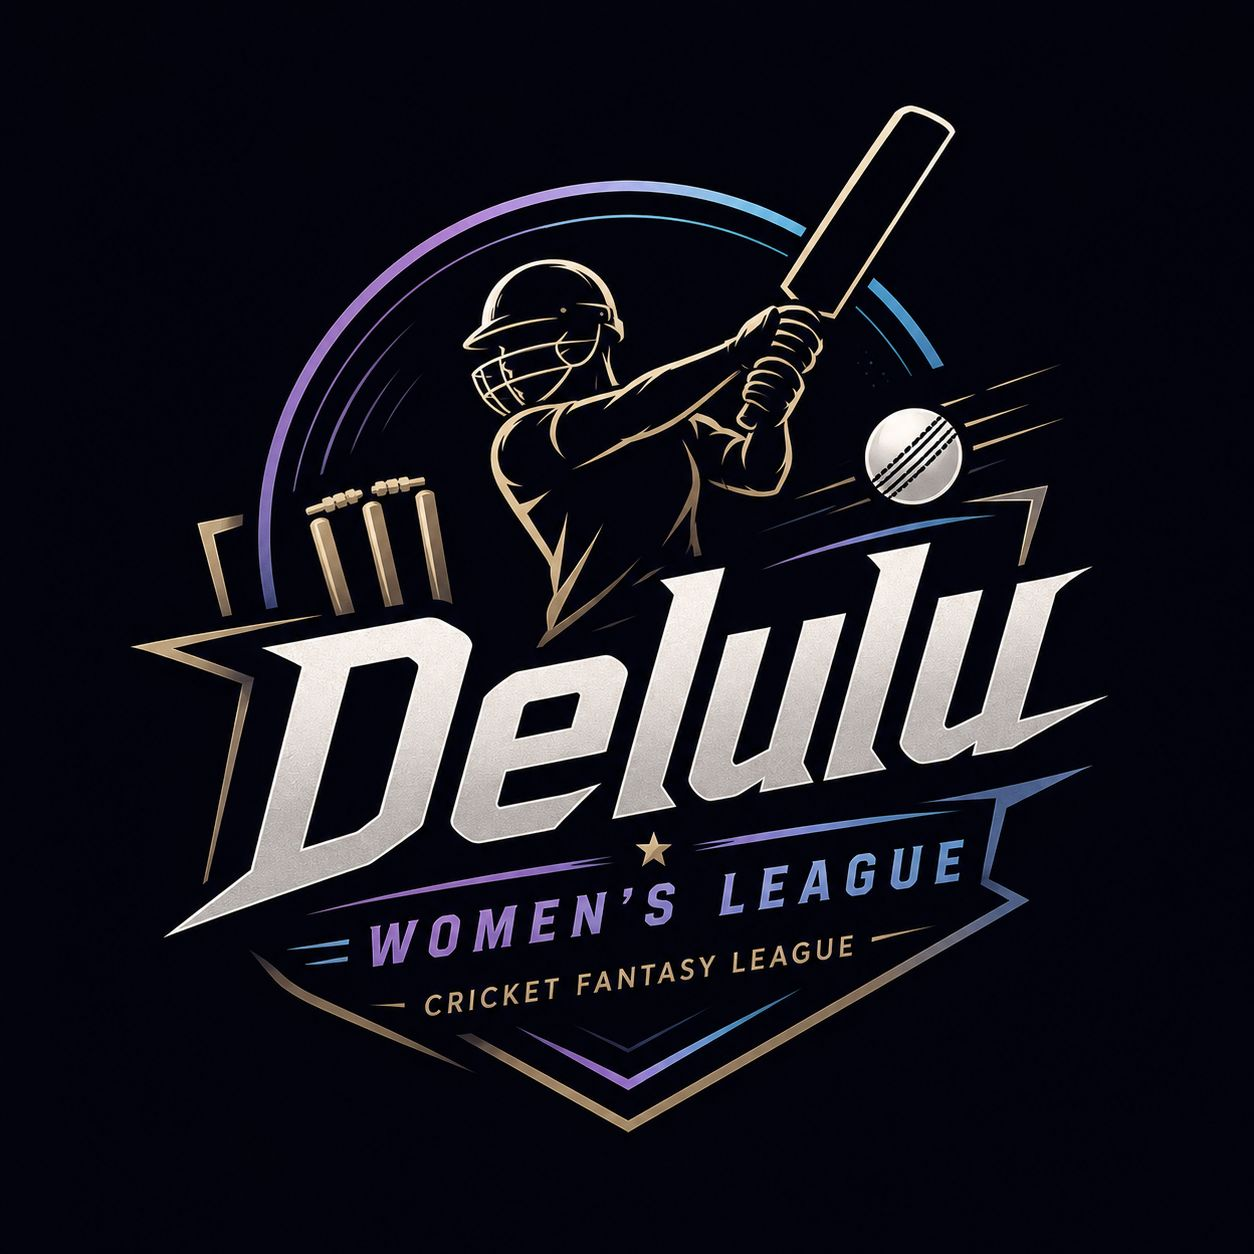
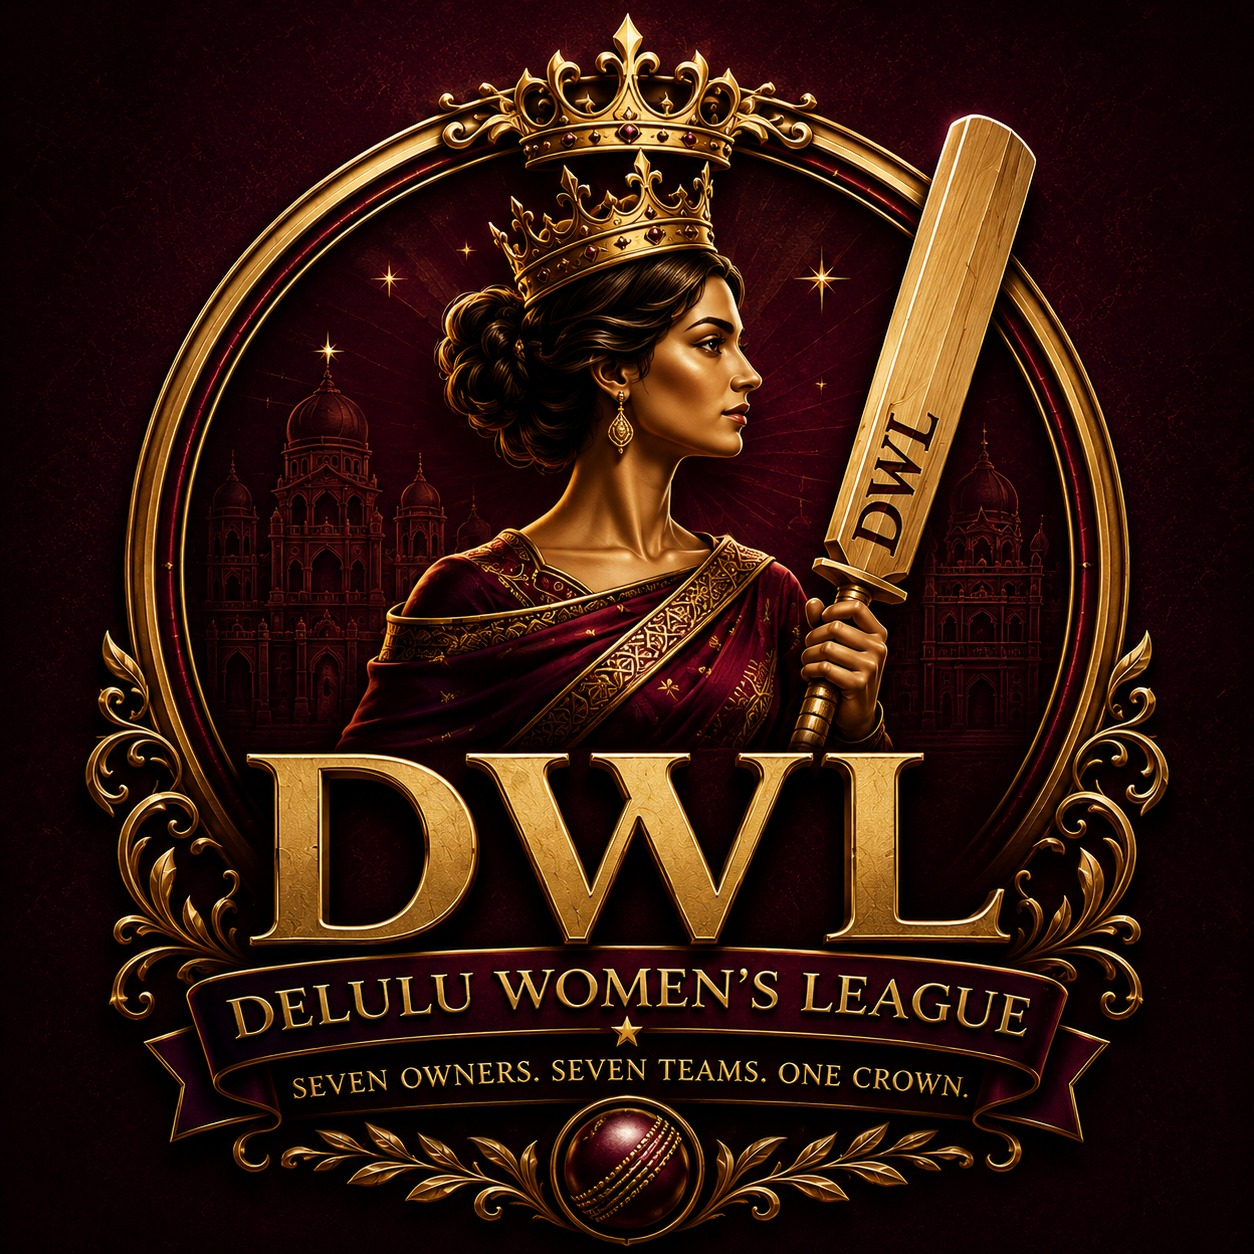
Add SGS, remove CT, update colors, Update Scoring criteria calculator

diff --git a/dwl-fantasy-platform/frontend/src/components/MatchDetailsModal.jsx b/dwl-fantasy-platform/frontend/src/components/MatchDetailsModal.jsx
@@ -1,7 +1,7 @@
 import React from 'react';
 import { motion } from 'framer-motion';
 import { XMarkIcon, TrophyIcon, UserIcon } from '@heroicons/react/24/outline';
-import { teamPrimaryColors } from '../data/teamColors';
+import { teamPrimaryColors, teamSecondaryColors } from '../data/teamColors';
 import { countryAbbrToFullNames } from '../data/countryInfo';
 
 
@@ -10,6 +10,9 @@ const countryNames = countryAbbrToFullNames
 
 // Team primary color mapping
 const teamBgColors = teamPrimaryColors
+
+// Team secondary color mapping
+const teamTextColors = teamSecondaryColors
 
 function MatchDetailsModal({ match, onClose }) {
   if (!match) return null;
@@ -205,7 +208,7 @@ function MatchDetailsModal({ match, onClose }) {
               return (
                 <div key={team} style={{ 
                   textAlign: 'center',
-                  width: '90px',
+                  width: '120px',
                   borderRadius: '8px',
                   overflow: 'hidden',
                   boxShadow: '0 2px 4px rgba(0,0,0,0.1)'
@@ -223,8 +226,8 @@ function MatchDetailsModal({ match, onClose }) {
                   <div style={{ 
                     padding: '0.5rem 0.25rem',
                     background: teamBgColors[team] || '#667eea',
-                    fontSize: '0.65rem', 
-                    color: 'white', 
+                    fontSize: '0.9rem', 
+                    color: teamTextColors[team] || 'white', 
                     fontWeight: '600',
                     textTransform: 'uppercase',
                     letterSpacing: '0.3px',
@@ -239,7 +242,7 @@ function MatchDetailsModal({ match, onClose }) {
                   }}>
                     <div>{team}</div>
                     <div style={{ 
-                      fontSize: '0.55rem', 
+                      fontSize: '0.7rem', 
                       opacity: 0.85, 
                       marginTop: '0.25rem',
                       borderTop: '1px solid rgba(255,255,255,0.3)',
@@ -297,7 +300,7 @@ function MatchDetailsModal({ match, onClose }) {
                   <td style={{ padding: '0.75rem', color: '#ccc' }}>
                     <div>
                       <span style={{ fontWeight: '500' }}>{player.name}</span>
-                      {player.is_motm && <span style={{ marginLeft: '0.5rem', fontSize: '0.7rem', color: '#FFD700' }}>⭐ MoM</span>}
+                      {player.is_motm && <span style={{ marginLeft: '0.5rem', fontSize: '0.7rem', color: '#FFD700' }}>⭐ PoM</span>}
                     </div>
                   </td>
                   <td style={{ padding: '0.75rem', fontSize: '0.8rem', color: '#999' }}>{player.country || '-'}</td>
@@ -350,7 +353,7 @@ function MatchDetailsModal({ match, onClose }) {
                       <td style={{ padding: '0.75rem', color: '#ccc' }}>
                         <div>
                           <span style={{ fontWeight: '500' }}>{player.name}</span>
-                          {player.is_motm && <span style={{ marginLeft: '0.5rem', fontSize: '0.7rem', color: '#FFD700' }}>⭐ MoM</span>}
+                          {player.is_motm && <span style={{ marginLeft: '0.5rem', fontSize: '0.7rem', color: '#FFD700' }}>⭐ PoM</span>}
                         </div>
                       </td>
                       <td style={{ padding: '0.75rem', fontSize: '0.8rem', color: '#999' }}>{player.country || '-'}</td>

diff --git a/dwl-fantasy-platform/frontend/src/data/teamOwners.js b/dwl-fantasy-platform/frontend/src/data/teamOwners.js
@@ -1,9 +1,5 @@
 // Team owner information
 export const teamOwners = {
-  'Chennai Thunder': { 
-    instaId: "slay.asray", 
-    instaUrl: "https://www.instagram.com/slay.asray/" 
-  },
   'Gully Divas': { 
     instaId: "barghavi.v", 
     instaUrl: "https://www.instagram.com/barghavi.v/" 
@@ -23,6 +19,10 @@ export const teamOwners = {
   'Sarafa Strikers': { 
     instaId: "kishanpolekar", 
     instaUrl: "https://www.instagram.com/kishanpolekar/" 
+  },
+  'Singara Singapengal': { 
+    instaId: "slay.asray", 
+    instaUrl: "https://www.instagram.com/slay.asray/" 
   },
   'Vanitha Warriors': { 
     instaId: "niksu1797", 

diff --git a/dwl-fantasy-platform/frontend/src/components/Teams.jsx b/dwl-fantasy-platform/frontend/src/components/Teams.jsx
@@ -3,12 +3,15 @@ import { motion, AnimatePresence } from 'framer-motion';
 import { XMarkIcon, UserIcon } from '@heroicons/react/24/outline';
 import PlayerNameWithBadge from './PlayerNameWithBadge';
 import { teamOwners } from '../data/teamOwners';
-import { teamPrimaryColors, teamEmojis } from '../data/teamColors';
+import { teamPrimaryColors, teamSecondaryColors, teamEmojis } from '../data/teamColors';
 import { countryAbbrToFullNames } from '../data/countryInfo';
 import { ChevronUpIcon, ChevronDownIcon, MagnifyingGlassIcon } from '@heroicons/react/24/outline';
 
 // Team background color mapping
 const teamBgColors = teamPrimaryColors
+
+// Team secondary color mapping
+const teamTextColors = teamSecondaryColors
 
 // Country abbreviation to full name mapping
 const countryNames = countryAbbrToFullNames
@@ -440,7 +443,7 @@ function Teams({ teams, players, leaderMap }) {
                 </div>
                 
                 {/* Team Info */}
-                <div style={{ flex: 1 }}>
+                <div style={{ flex: 1, color: teamTextColors[selectedTeam.name] || 'white' }}>
                   <h2 style={{ margin: 0, fontSize: '1.5rem' }}>{selectedTeam.name}</h2>
                   <p style={{ margin: '0.5rem 0 0', opacity: 0.9 }}>
                     {selectedTeamPlayers.length} Players • {Math.round(selectedTeam.totalPoints || 0).toLocaleString()} Total Points

diff --git a/dwl-fantasy-platform/frontend/src/components/Stats.jsx b/dwl-fantasy-platform/frontend/src/components/Stats.jsx
@@ -11,7 +11,7 @@ import { countryAbbrToFullNames } from '../data/countryInfo';
 const teamBgColors = teamPrimaryColors
 
 // Team secondary color mapping
-const teamBorderColors = teamSecondaryColors
+const teamColors = teamSecondaryColors
 
 // Country abbreviation to full name mapping
 const countryNames = countryAbbrToFullNames
@@ -241,11 +241,11 @@ function Stats({ teams, players, matches, leaderMap, tournamentStats, setActiveT
                 <PlayerNameWithBadge name={p.name} captainVC={p.captainVC} leaderMap={leaderMap} />
                 <span style={{ 
                   fontSize: '0.7rem', 
-                  color: 'rgba(255,255,255,0.95)', 
+                  color: teamColors[p.team] || 'rgba(255,255,255,0.95)', 
                   background: teamBgColors[p.team] || '#f0f0f0', 
                   padding: '0.1rem 0.5rem', 
                   borderRadius: '2px',
-                  border: `2px solid ${teamBorderColors[p.team] || '#ccc'}`
+                  border: `2px solid ${teamColors[p.team] || '#ccc'}`
                 }}>
                   {teamNameToAbbr[p.team] || p.team || '??'}
                 </span>

diff --git a/dwl-fantasy-platform/frontend/src/data/teamColors.js b/dwl-fantasy-platform/frontend/src/data/teamColors.js
@@ -1,32 +1,32 @@
 // Team primary color mapping (Main branding colors for team backgrounds, cards, and headers)
 export const teamPrimaryColors = {
-  'Chennai Thunder': '#FFD700',      // Gold/Yellow - Bright and striking
   'Gully Divas': '#008080',          // Teal - Deep blue-green contrast
   'Janaki Royals': '#301934',        // Dark Purple - Royal and rich
   'Konkan Queens': '#800000',        // Maroon - Royal and rich
   'Rajputana Ranis': '#E759AC',      // Royal Pink - Colorful and vibrant
   'Sarafa Strikers': '#0B0C10',      // Deep Midnight - The midnight sky
+  'Singara Singapengal': '#FFD700',  // Gold/Yellow - Bright and striking
   'Vanitha Warriors': '#046307',     // Dark Green - Natural and earthy
 };
 
 // Team secondary color mapping (Used for borders, accents, text, and hover states)
 export const teamSecondaryColors = {
-  'Chennai Thunder': '#0000FF',      // Blue - Cool contrast to yellow
   'Gully Divas': '#800080',          // Purple - Warm accent for teal
   'Janaki Royals': '#FAEBC8',        // Cream - Soft accent for dark purple
   'Konkan Queens': '#B0903D',        // Antique Gold - Vintage accent for maroon
   'Rajputana Ranis': '#D4AF37',      // Royal Metallic Gold - Metallic accent for pink
   'Sarafa Strikers': '#F5D37A',      // Soft Gold - Sarafa Market's gold/jewelry heritage
+  'Singara Singapengal': '#33764E',  // Green - Cool contrast to yellow
   'Vanitha Warriors': '#D4B631',     // Muted Gold - Bright accent for dark green
 };
 
 // Team Emojis for Fallback
 export const teamEmojis = {
-  'Chennai Thunder': '⚡',           // Thunder / Lightning
   'Gully Divas': '💅🏻',              // Diva / Nails / Glamour
   'Janaki Royals': '👑',            // Royals / Crown
   'Konkan Queens': '👸',            // Queens / Crown
   'Rajputana Ranis': '🐎',          // Ranis / Horse (Rajputana heritage)
   'Sarafa Strikers': '💎',          // Strikers / Sarafa (Jewelry market)
+  'Singara Singapengal': '🦁',      // Lion / Lioness
   'Vanitha Warriors': '🐘',         // Warriors / Elephant (Strength)
 };

diff --git a/dwl-fantasy-platform/frontend/src/components/Standings.jsx b/dwl-fantasy-platform/frontend/src/components/Standings.jsx
@@ -243,7 +243,8 @@ function Standings({ teams, matches = [] }) {
                   display: 'flex', 
                   alignItems: 'center', 
                   justifyContent: 'center',
-                  height: '100%'
+                  height: '100%',
+                  background: 'rgba(17, 17, 34, 0.5)',
                 }}>
                   <span style={{ fontSize: '2.5rem' }}>{medal}</span>
                 </div>

diff --git a/dwl-fantasy-platform/backend/wwc_fantasy.py b/dwl-fantasy-platform/backend/wwc_fantasy.py
@@ -61,23 +61,29 @@ class FantasyPointsCalculator:
     SR_PENALTY: int = -15  # For SR < 100 (minimum 3 balls, not out on zero)
     
     # Bowling points
-    WICKET_POINT: int = 30
+    WICKET_POINT: int = 40
     THREE_WICKET_HAUL_BONUS: int = 25
+    FOUR_WICKET_HAUL_BONUS: int = 35
     FIVE_WICKET_HAUL_BONUS: int = 50
+    SIX_WICKET_HAUL_BONUS: int = 75
     HATTRICK_BONUS: int = 45
-    MAIDEN_OVER_BONUS: int = 10
+    MAIDEN_OVER_BONUS: int = 20
     
     # Economy rate bonus thresholds
     ECON_BONUS: list[tuple[int, int, int]] = [
-        (0, 6, 25), (6, 7, 15), (7, 8, 10)
+        (0, 4, 50), (4, 5, 35), (5, 6, 25), (6, 7, 15), (7, 8, 10)
     ]
-    ECON_PENALTY: int = -10  # For economy >= 12
+    # Economy rate penalties thresholds
+    ECON_PENALTIES: list[tuple[int, int, int]] = [
+        (12, 14, -10), (14, 16, -15), (16, 20, -20)
+    ]
+    ECON_FINAL_PENALTY: int = -25  # For economy >= 20 (minimum 6 balls)
     
     # Fielding points
-    FIELDING_POINT: int = 20  # Any type of dismissal (catch, run-out, stumping)
+    FIELDING_POINT: int = 30  # Any type of dismissal (catch, run-out, stumping)
     
     # Bonuses
-    MOTM_BONUS: int = 25
+    POTM_BONUS: int = 50
     
     @classmethod
     def calculate_batting_points(cls, runs: int, balls: int, fours: int, sixes: int, 
@@ -178,7 +184,7 @@ class FantasyPointsCalculator:
         # Economy Rate Bonus (APPLICABLE for both Regular and Super Over)
         # Convert cricket overs to decimal to check minimum balls requirement
         decimal_overs: float = overs_to_decimal(overs)
-        if decimal_overs >= 0.5:  # Minimum 3 balls (0.5 decimal overs)
+        if decimal_overs >= 1.0:  # Minimum 6 balls (1.0 decimal overs)
             economy: float = runs_conceded / decimal_overs if decimal_overs > 0 else 0
             econ_applied: bool = False
             
@@ -189,9 +195,16 @@ class FantasyPointsCalculator:
                     econ_applied = True
                     break
             
-            if not econ_applied and economy >= 12:
-                points += cls.ECON_PENALTY
-                breakdown["econ_penalty"] = cls.ECON_PENALTY
+            for low, high, penalty in cls.ECON_PENALTIES:
+                if low <= economy < high:
+                    points += penalty
+                    breakdown[f"econ_{low}_{high}"] = penalty
+                    econ_applied = True
+                    break
+            
+            if not econ_applied and economy >= 20:
+                points += cls.ECON_FINAL_PENALTY
+                breakdown["econ_final_penalty"] = cls.ECON_FINAL_PENALTY
         
         return {"total": points, "breakdown": breakdown}
     
@@ -207,7 +220,7 @@ class FantasyPointsCalculator:
         """Calculate total fantasy points including Man of the Match bonus."""
         total: int = batting.get("total", 0) + bowling.get("total", 0) + fielding.get("total", 0)
         if is_motm:
-            total += cls.MOTM_BONUS
+            total += cls.POTM_BONUS
         return total
 
 
@@ -1255,7 +1268,7 @@ class WWCScorecard:
             
             total_points: int = total_batting + total_bowling + total_fielding
             if is_motm:
-                total_points += FantasyPointsCalculator.MOTM_BONUS
+                total_points += FantasyPointsCalculator.POTM_BONUS
             
             player_data["fantasy_points"] = total_points
             player_data["super_over_points"] = so_total

diff --git a/dwl-fantasy-platform/backend/api_server.py b/dwl-fantasy-platform/backend/api_server.py
@@ -423,15 +423,13 @@ async def get_matches():
         
         # Calculate total points per team from match_entry (THIS IS KEY FOR STATS PAGE)
         team_points = {
-            'Andhra Capitals': 0,
             'Gully Divas': 0,
-            'Chennai Thunder': 0,
-            'Hyderabad Haramis': 0,
-            'Kutte Kamine Riders': 0,
-            'Kochi Tuskers': 0,
+            'Janaki Royals': 0,
             'Konkan Queens': 0,
-            'Nepali Rhinos': 0,
-            'Rajasthan Ragers': 0,
+            'Rajputana Ranis': 0,
+            'Sarafa Strikers': 0,
+            'Singara Singapengal': 0,
+            'Vanitha Warriors': 0,
         }
         for player, player_data in match_entry.items():
             team = player_data.get("dwl_team", "")
@@ -468,15 +466,13 @@ async def get_match_details(match_num: int):
     
     # Calculate team totals and collect player details
     team_points = {
-        'Andhra Capitals': 0,
         'Gully Divas': 0,
-        'Chennai Thunder': 0,
-        'Hyderabad Haramis': 0,
-        'Kutte Kamine Riders': 0,
-        'Kochi Tuskers': 0,
+        'Janaki Royals': 0,
         'Konkan Queens': 0,
-        'Nepali Rhinos': 0,
-        'Rajasthan Ragers': 0,
+        'Rajputana Ranis': 0,
+        'Sarafa Strikers': 0,
+        'Singara Singapengal': 0,
+        'Vanitha Warriors': 0,
     }
     player_details = []
     

diff --git a/dwl-fantasy-platform/backend/dwl_scoring_pipeline.py b/dwl-fantasy-platform/backend/dwl_scoring_pipeline.py
@@ -568,7 +568,7 @@ def process_scorecard(
         f"M{match_num}: {info.get('title','')}"
         f"  |  {info.get('date','')}"
         f"  |  {info.get('result','')}"
-        + (f"  |  MoM: {info.get('player_of_match','')}" if info.get("player_of_match") else "")
+        + (f"  |  PoM: {info.get('player_of_match','')}" if info.get("player_of_match") else "")
         + (f"  |  ⚡ SUPER OVER" if info.get('has_super_over', False) else "")
     )
     
@@ -604,7 +604,7 @@ def print_match_summary(match_entry, teams_abbr, name_to_abbr, player_team):
             mult = s["mult"]
             raw = pd["pts"]
             final = pd["final_pts"]
-            motm = " ⭐MoM" if pd["is_motm"] else ""
+            motm = " ⭐PoM" if pd["is_motm"] else ""
             mult_str = f" (×{mult})" if mult > 1 else ""
             print(f"        {pname:<28} {final:>6.0f} pts  [raw {raw}{mult_str}]{motm}")
 